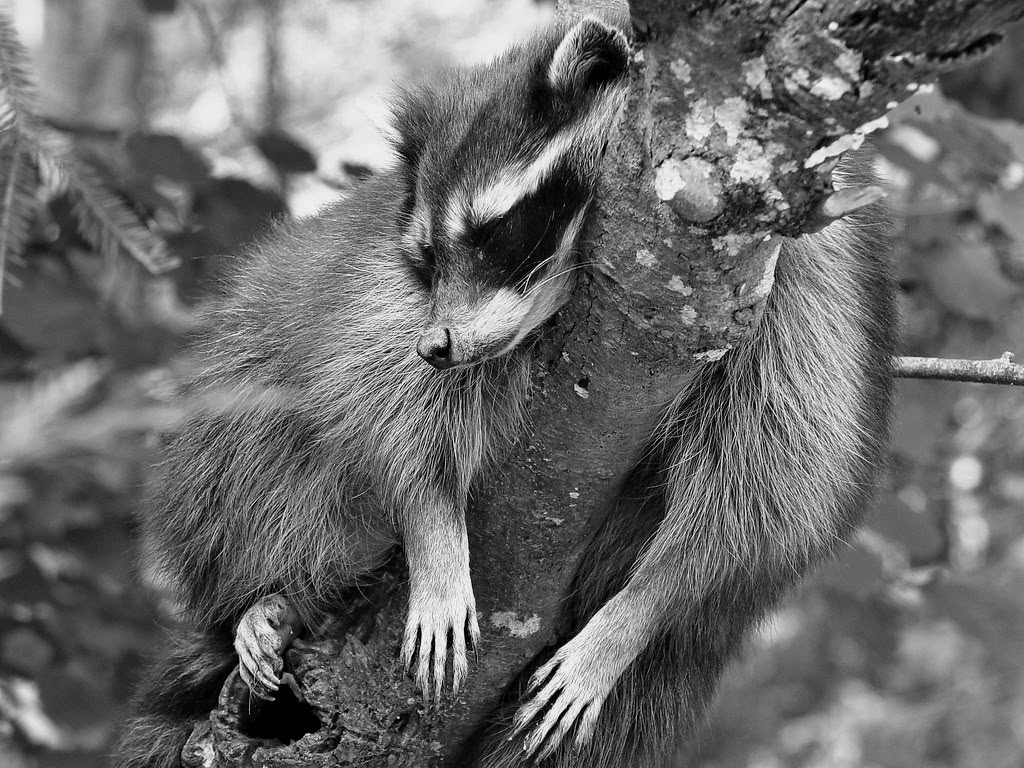
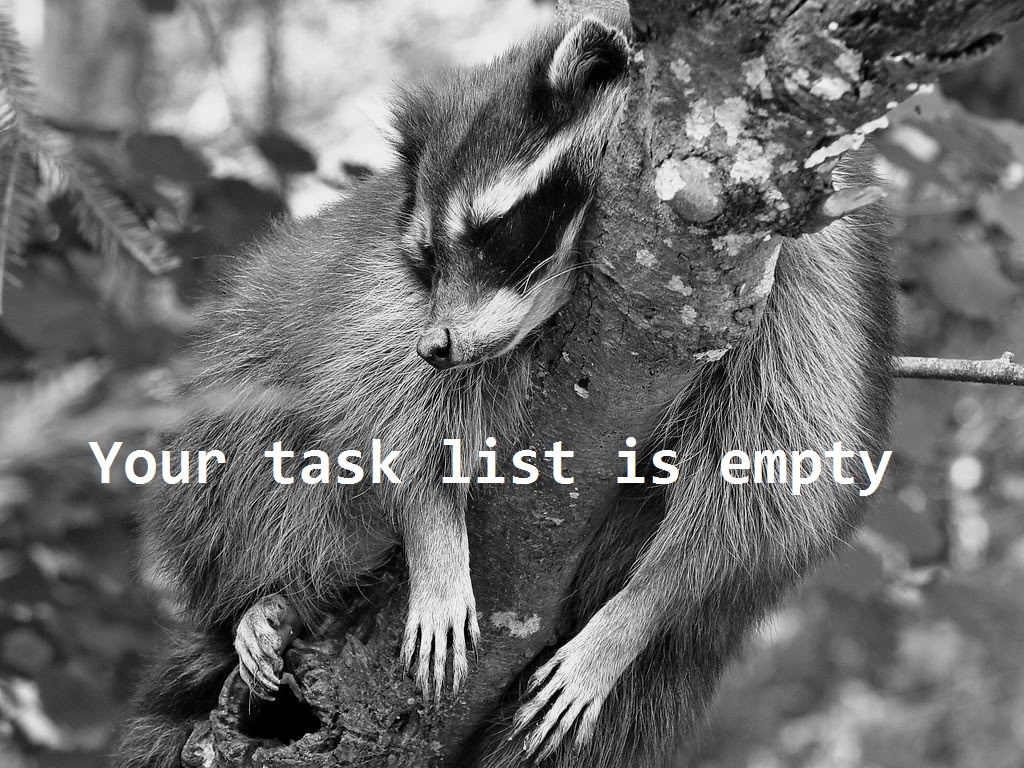
commiting from new laptop

diff --git a/Client/Views/Index.html b/Client/Views/Index.html
@@ -198,10 +198,14 @@
             </div>
 
         </div>
-        <div ng-if="taskListIsEmpty" layout="row" layout-align="center end" id="emptyTaskListText">
-            <p >Your task list is empty</p>
+        <div ng-if="taskListIsEmpty" layout="column" layout-margin layout-align="start" id="emptyTaskListText">
+          <div>
+             
+              <!--<p>Your task list is empty</p>-->
+          </div>
             <!--<img ng-src="../Images/raccoon.jpg" height="500" alt="no tasks image" title="no tasks" />-->
         </div>
+
         <md-button id="gotoThePageTop" class="md-secondary md-fab" aria-label="gotoThePageTop" ng-click="scrollUp()">
             <md-icon class="material-icons">keyboard_capslock</md-icon>
         </md-button>

diff --git a/Client/Styles/main.css b/Client/Styles/main.css
@@ -138,10 +138,11 @@ footer {
     font-size: 0.3em!important;
 }
 /*Animation for collapse/expand*/
-#emptyTaskListText {
+#emptyTaskListText div{
     background: url(../Images/raccoon.jpg) no-repeat;
-    height:500px;
-    color:white;
-    font-size:3em;
-    opacity:.8;
+    background-size: contain;
+    height: 500px;
+    color: white;
+    font-size: 200%;
 }
+

diff --git a/Client/Controllers/taskController.js b/Client/Controllers/taskController.js
@@ -147,6 +147,7 @@
         $scope.date = new Date();
         $scope.workItemMessage = "ADD TASK TO TRACK ITS TIME";
         function createTask(newTask) {
+            $scope.taskListIsEmpty = false;
             $scope.taskNamesDictionary.unshift(newTask['Name']);
             $http.post('/createTask', newTask)
                 .success(function (data) {
